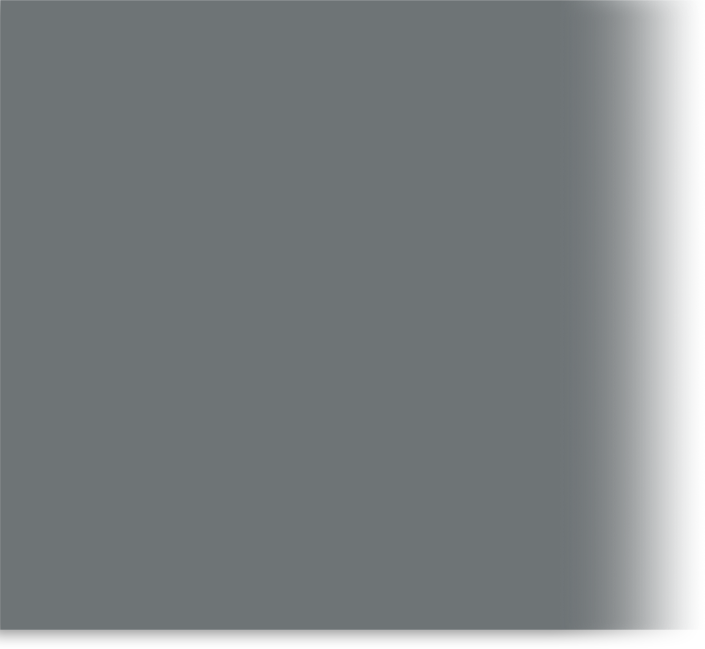
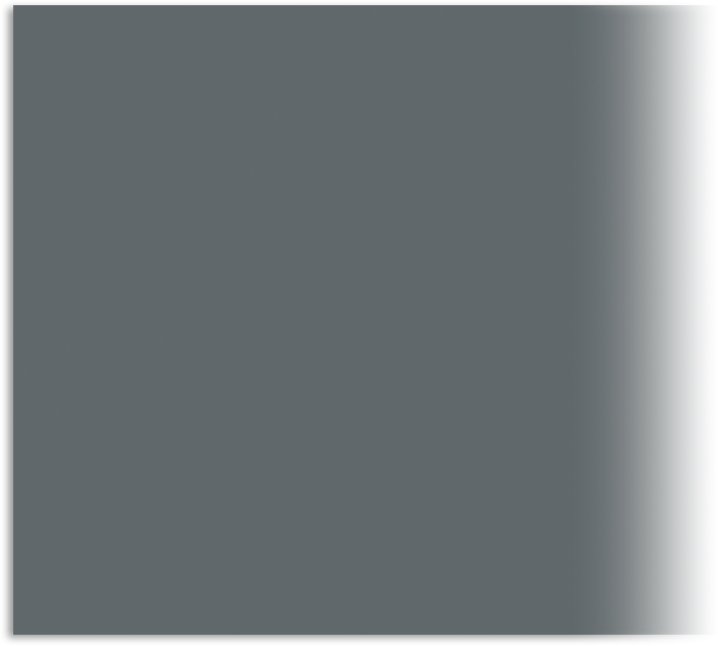
.

Changed region(s): [[0.0, 0.0, 0.9674, 0.9907]]

diff --git a/themes/cometd/assets/css/_home-2.css b/themes/cometd/assets/css/_home-2.css
@@ -1,25 +1,21 @@
 .hm-bnr-section {
 	padding: 50px 0 60px;
     min-height: 900px;
-    /*background-position: left -100px!important;*/
-    background-position: 100% 100%!important;
+    background-position: left bottom!important;
 }
-.hm-bnr-cntnt-cntlr{
+.hm-bnr-cntnt{
 	display: flex;
-	justify-content: center;
-	padding-bottom: 40px;
+	padding-bottom: 0;
 	flex-wrap:wrap;
+    background-repeat: no-repeat;
+    margin-left: -5px;
+     background-size: auto 100%!important;
 }
 .hm-bnr-lft-cntnt {
-    width: 55%;
-    -webkit-box-shadow: -16px 0px 32px -15px rgba(102,102,102,0.63);
-    -moz-box-shadow: -16px 0px 32px -15px rgba(102,102,102,0.63);
-    box-shadow: -16px 0px 13px -16px rgb(100 100 100 / 63%);
-
-    background-position: right top!important;
+    width: 60%;
 }
 .hm-bnr-des{
-	padding: 85px 65px 85px 40px;
+	padding: 85px 95px 85px 40px;
 }
 .hm-bnr-cntnt-title{
 	color: #fff;
@@ -28,6 +24,7 @@
 	font-style: normal;
 	font-size: 42px;
 	display: inline-block;
+	text-shadow: 2px 2px 2px #52585a;
 }
 .hm-bnr-des p{
 	color: #fff;
@@ -48,17 +45,19 @@
 }
 .hm-bnr-tel a{
 	font-size: 40px;
+	line-height: 1;
 	font-weight: 400;
 	font-family: 'Helvetica';
 	color: #fff;
 	text-decoration: none;
 	display: inline-block;
+	text-shadow: 2px 2px 2px #52585a;
 }
 .hm-bnr-tel a:hover{
-	color: #373d3f;
+	opacity: .8;
 }
 .hm-bnr-rgt-cntnt{
-	width: 45%;
+	width: 40%;
 }
 .hm-bnr-rgt-logo{
 	margin-top: 40px;
@@ -105,82 +104,44 @@
 	-moz-transform: scale(1.1);
 }
 
-/*___________________________________ responsive _________________________________________________*/
-@media(max-width:1699px){
-	.hm-bnr-des {
-    padding: 85px 26px 85px 40px;
-}
-}
-@media(max-width: 1399px){
-	.hm-bnr-lft-cntnt {
-    width: 50%;
-    padding-right: 43px;
-}
-.hm-bnr-rgt-cntnt {
-    padding-left: 20px;
-}
 
-.hm-bnr-des {
-    padding: 60px 0 60px 30px;
-}
-
-.hm-bnr-section{
-	min-height: 600px;
-}
-.hm-bnr-rgt-logo img{
-	width: 290px;
-}
-.hm-bnr-des p{
-	font-size: 18px;
-}
-.hm-bnr-tel a {
-    font-size: 38px;
-}
-
-
-}
 @media(max-width: 1199px){
-
-.hm-bnr-des {
-    padding: 50px 20px 50px 40px;
-}
-.hm-bnr-des p{
-	font-size: 17px;
-}
-.hm-bnr-contact-info {
-    padding-top: 20px;
-}
-
-.hm-bnr-lft-cntnt {
-    padding-right: 0;
-}
-	
-.hm-bnr-tel a {
-    font-size: 36px;
-}
-.hm-bnr-contact-info strong{
-	font-size: 13px;
-}
-
-
+	.hm-bnr-des {
+	    padding: 50px 20px 50px 40px;
+	}
+	.hm-bnr-des p{
+		font-size: 17px;
+	}
+	.hm-bnr-contact-info {
+	    padding-top: 20px;
+	}
+	.hm-bnr-lft-cntnt {
+	    padding-right: 0;
+	}
+	.hm-bnr-tel a {
+	    font-size: 36px;
+	}
+	.hm-bnr-contact-info strong{
+		font-size: 13px;
+	}
 }
 @media(max-width: 991px){
-.hm-bnr-des {
-    padding: 40px 20px 40px 30px;
-}
-.hm-bnr-des p {
-    font-size: 16px;
-}
-.hm-bnr-rgt-logo img {
-    width: 250px;
-}
+	.hm-bnr-des {
+	    padding: 40px 20px 40px 30px;
+	}
+	.hm-bnr-des p {
+	    font-size: 16px;
+	}
+	.hm-bnr-rgt-logo img {
+	    width: 250px;
+	}
 
-.hm-bnr-lft-cntnt{
-	width: 56%;
-}
-.hm-bnr-rgt-cntnt {
-    width: 44%;
-}		
+	.hm-bnr-lft-cntnt{
+		width: 56%;
+	}
+	.hm-bnr-rgt-cntnt {
+	    width: 44%;
+	}		
 
 }
 @media(max-width: 767px){
@@ -193,43 +154,43 @@
 	.hm-bnr-lft-cntnt {
 		width: 100%;
 		order: 2;
-
-		}
-
+	}
 	.hm-bnr-rgt-cntnt {
 		width: 100%;
 		order: 1;
 		padding-bottom: 30px;
-		}
-
-	.hm-bnr-cntnt-cntlr {
+	}
+	.hm-bnr-cntnt {
 		justify-content: flex-start;
-		}
-		.bnr-service-grd-cntlr-row {
-    padding-top: 20px;
-}
+	}
+	.bnr-service-grd-cntlr-row {
+    	padding-top: 20px;
+	}
 	.hm-bnr-section {
-    padding: 30px 0 60px;
-}	
-.hm-bnr-rgt-logo {
-    margin-top: 0;
-}
+    	padding: 30px 0 60px;
+	}	
+	.hm-bnr-rgt-logo {
+    	margin-top: 0;
+	}
 
 }
-@media(max-width: 639px){}
+@media(max-width: 639px){
+
+}
+
 @media(max-width: 575px){
 	.service-grd-fea-img div {
-    height: 155px;
-}
-.hm-bnr-des {
-    padding: 25px 20px 30px 20px;
-}
-.hm-bnr-rgt-logo img {
+	height: 155px;
+	}
+	.hm-bnr-des {
+	padding: 25px 20px 30px 20px;
+	}
+	.hm-bnr-rgt-logo img {
 		    width: 200px;
 		}
-.bnr-service-grd-cntlr-row {
-    padding-top: 0px;
-}
+	.bnr-service-grd-cntlr-row {
+	padding-top: 0px;
+	}
 }
 @media(max-width: 479px){}
 @media(max-width: 379px){}

diff --git a/themes/cometd/front-page.html b/themes/cometd/front-page.html
@@ -139,15 +139,15 @@
     <div class="row">
       <div class="col-md-12">
         <div class="hm-bnr-cntnt">
-          <div class="hm-bnr-cntnt-cntlr">
-            <div class="hm-bnr-lft-cntnt inline-bg" style="background-image: url('assets/images/bnr-cntnt-grey-bg.png');">
+          <div class="hm-bnr-cntnt" style="background-image: url('assets/images/bnr-cntnt-grey-bg.png');">
+            <div class="hm-bnr-lft-cntnt">
               <div class="hm-bnr-des">
                 <h1 class="fl-h1 hm-bnr-cntnt-title">Welcome to Comet Dental!</h1>
                 <p> At Comet Dental we’re committed to providing healthy, beautiful smiles for our patients. We are family owned and operated in Northeast Ohio and provide general, preventative, cosmetic and restorative dentistry for adults, children, and seniors. We accept all insurance plans as well as various discount plans and affordable payment options such as InDent and Care Credit. Please give us a call today to schedule your appointment. We look forward to making your smile bright!</p>
                 <div class="hm-bnr-contact-info">
                   <strong>SCHEDULE YOUR APPOINTMENT</strong>
                   <div class="hm-bnr-tel">
-                    <a href="#">440-984-3840</a>
+                    <a href="tel:4409843840">440-984-3840</a>
                   </div>
                 </div>
               </div>

diff --git a/themes/cometd/assets/css/_commons.css b/themes/cometd/assets/css/_commons.css
@@ -18,17 +18,17 @@ a, a:hover, a:focus, button:hover, button:focus{
 body {
     background: #ffffff;
     color: #565d60;
-    font-size: 21px;
+    font-size: 20px;
     line-height: 27px;
     font-family: 'Helvetica-Normal';
-    /*font-family: 'Helvetica';*/
-    /*font-family: 'Helvetica-Bold';*/
-	/*font-family: 'Helvetica-Light';*/
-	/*font-family: 'Archer-Semibold';*/
-	/*font-family: 'Archer-Medium';*/
-	/*font-family: 'Archer-Light';*/
-	/*font-family: 'Archer-Bold';*/
 }
+/*font-family: 'Helvetica';*/
+/*font-family: 'Helvetica-Bold';*/
+/*font-family: 'Helvetica-Light';*/
+/*font-family: 'Archer-Semibold';*/
+/*font-family: 'Archer-Medium';*/
+/*font-family: 'Archer-Light';*/
+/*font-family: 'Archer-Bold';*/
 p{
 	line-height: 1.2;
 	margin-bottom: 15px;

diff --git a/themes/cometd/assets/css/responsive.css b/themes/cometd/assets/css/responsive.css
@@ -34,9 +34,6 @@
 	h1,.fl-h1{
 		font-size: 40px;
 	}
-	body{
-		font-size: 20px;
-	}
 }
 
 @media(max-width: 991px){
